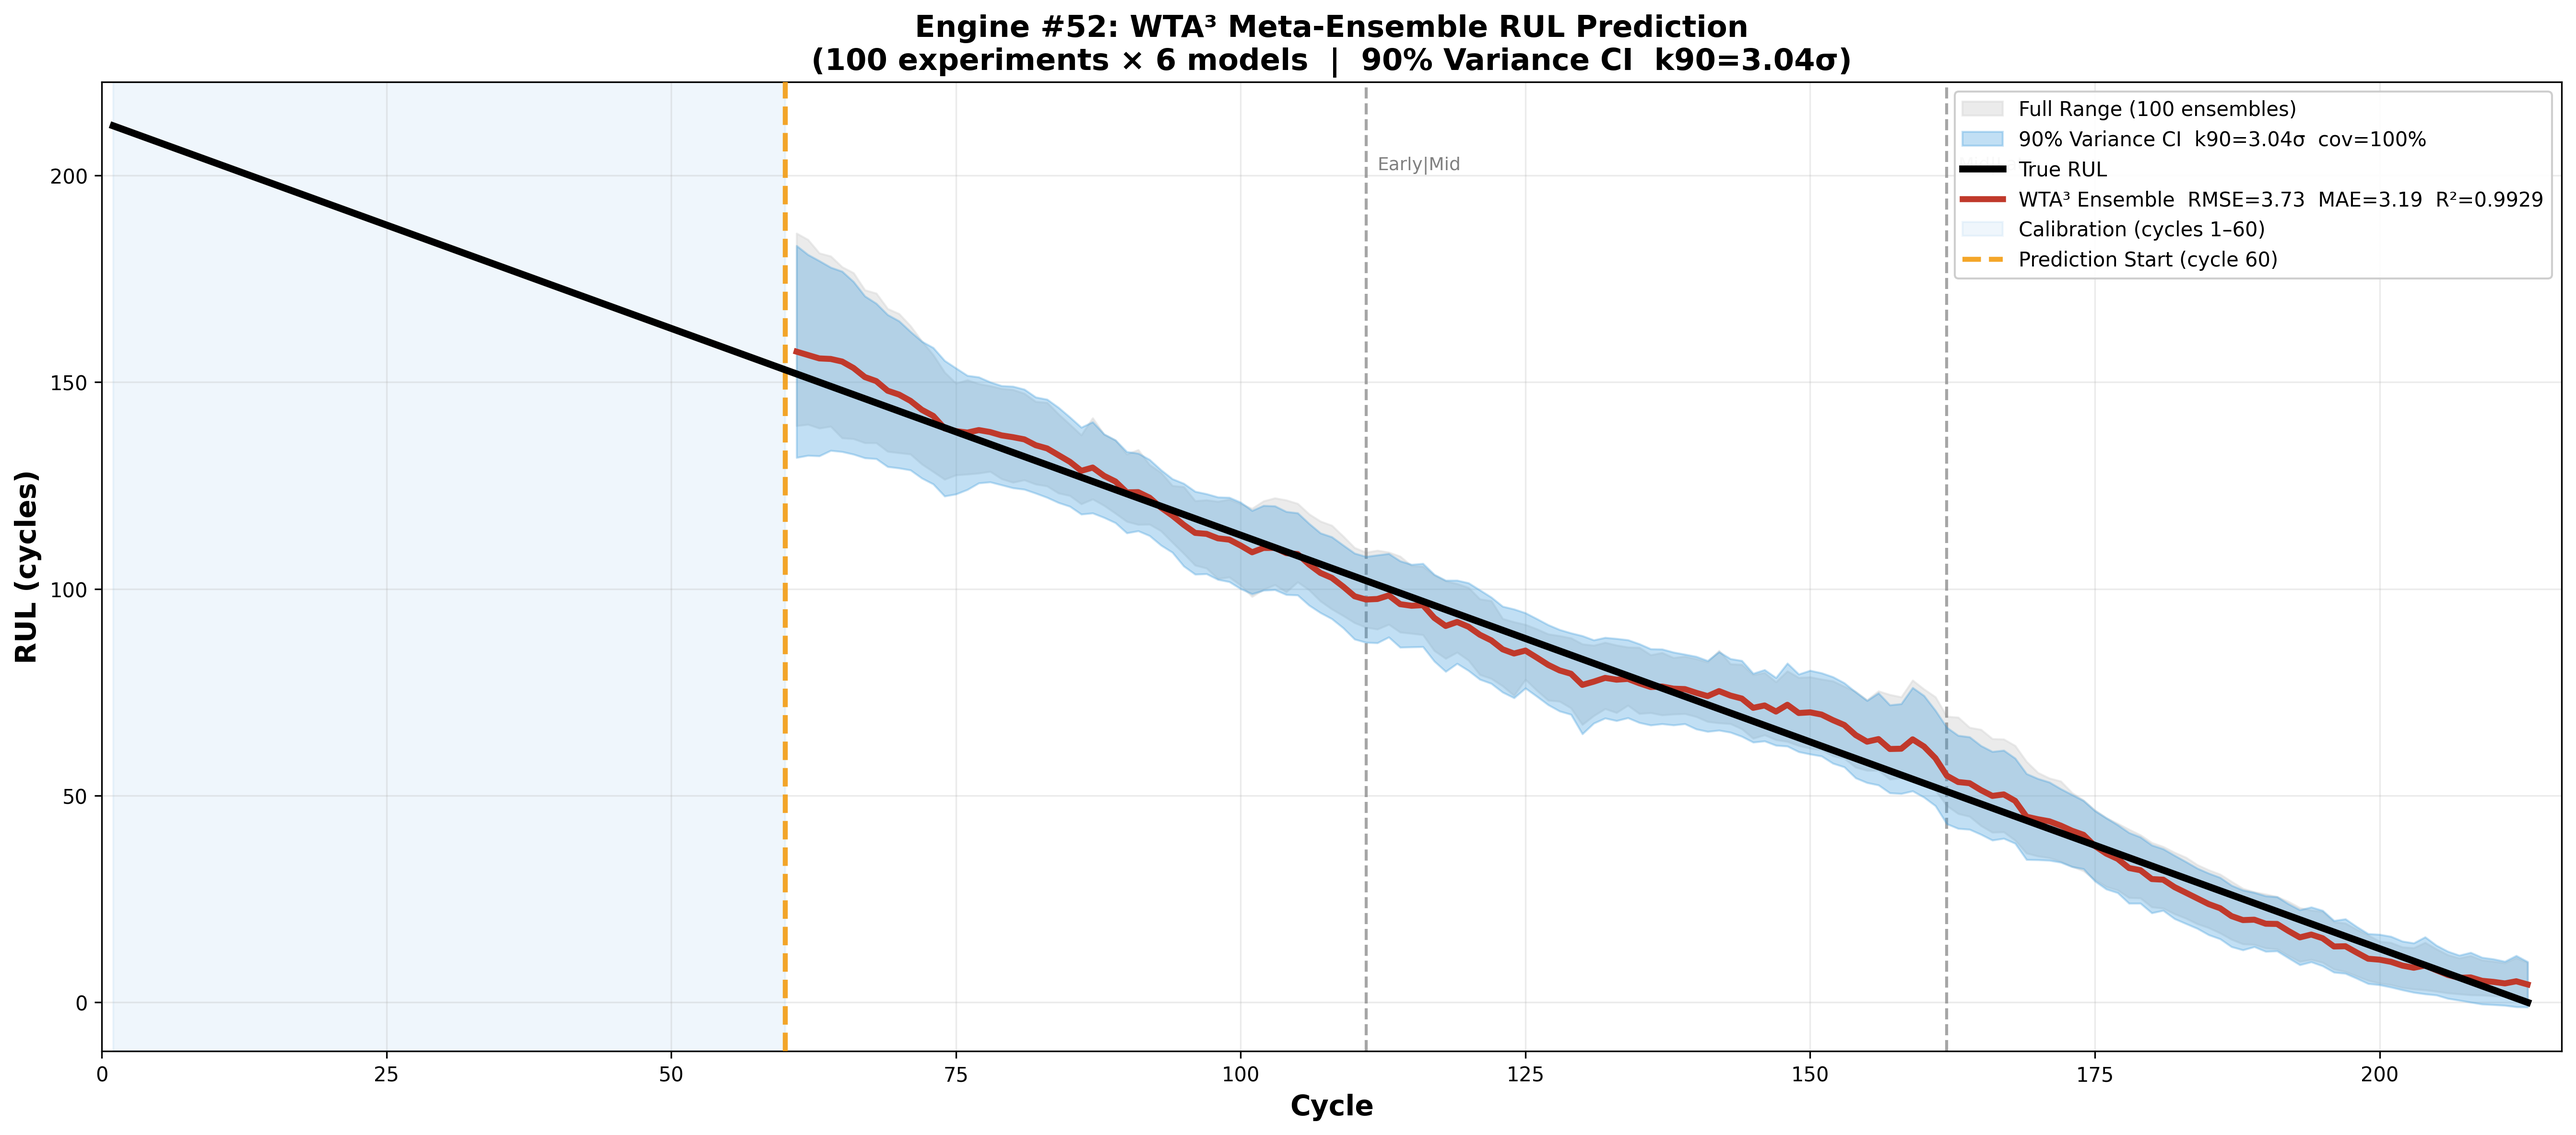
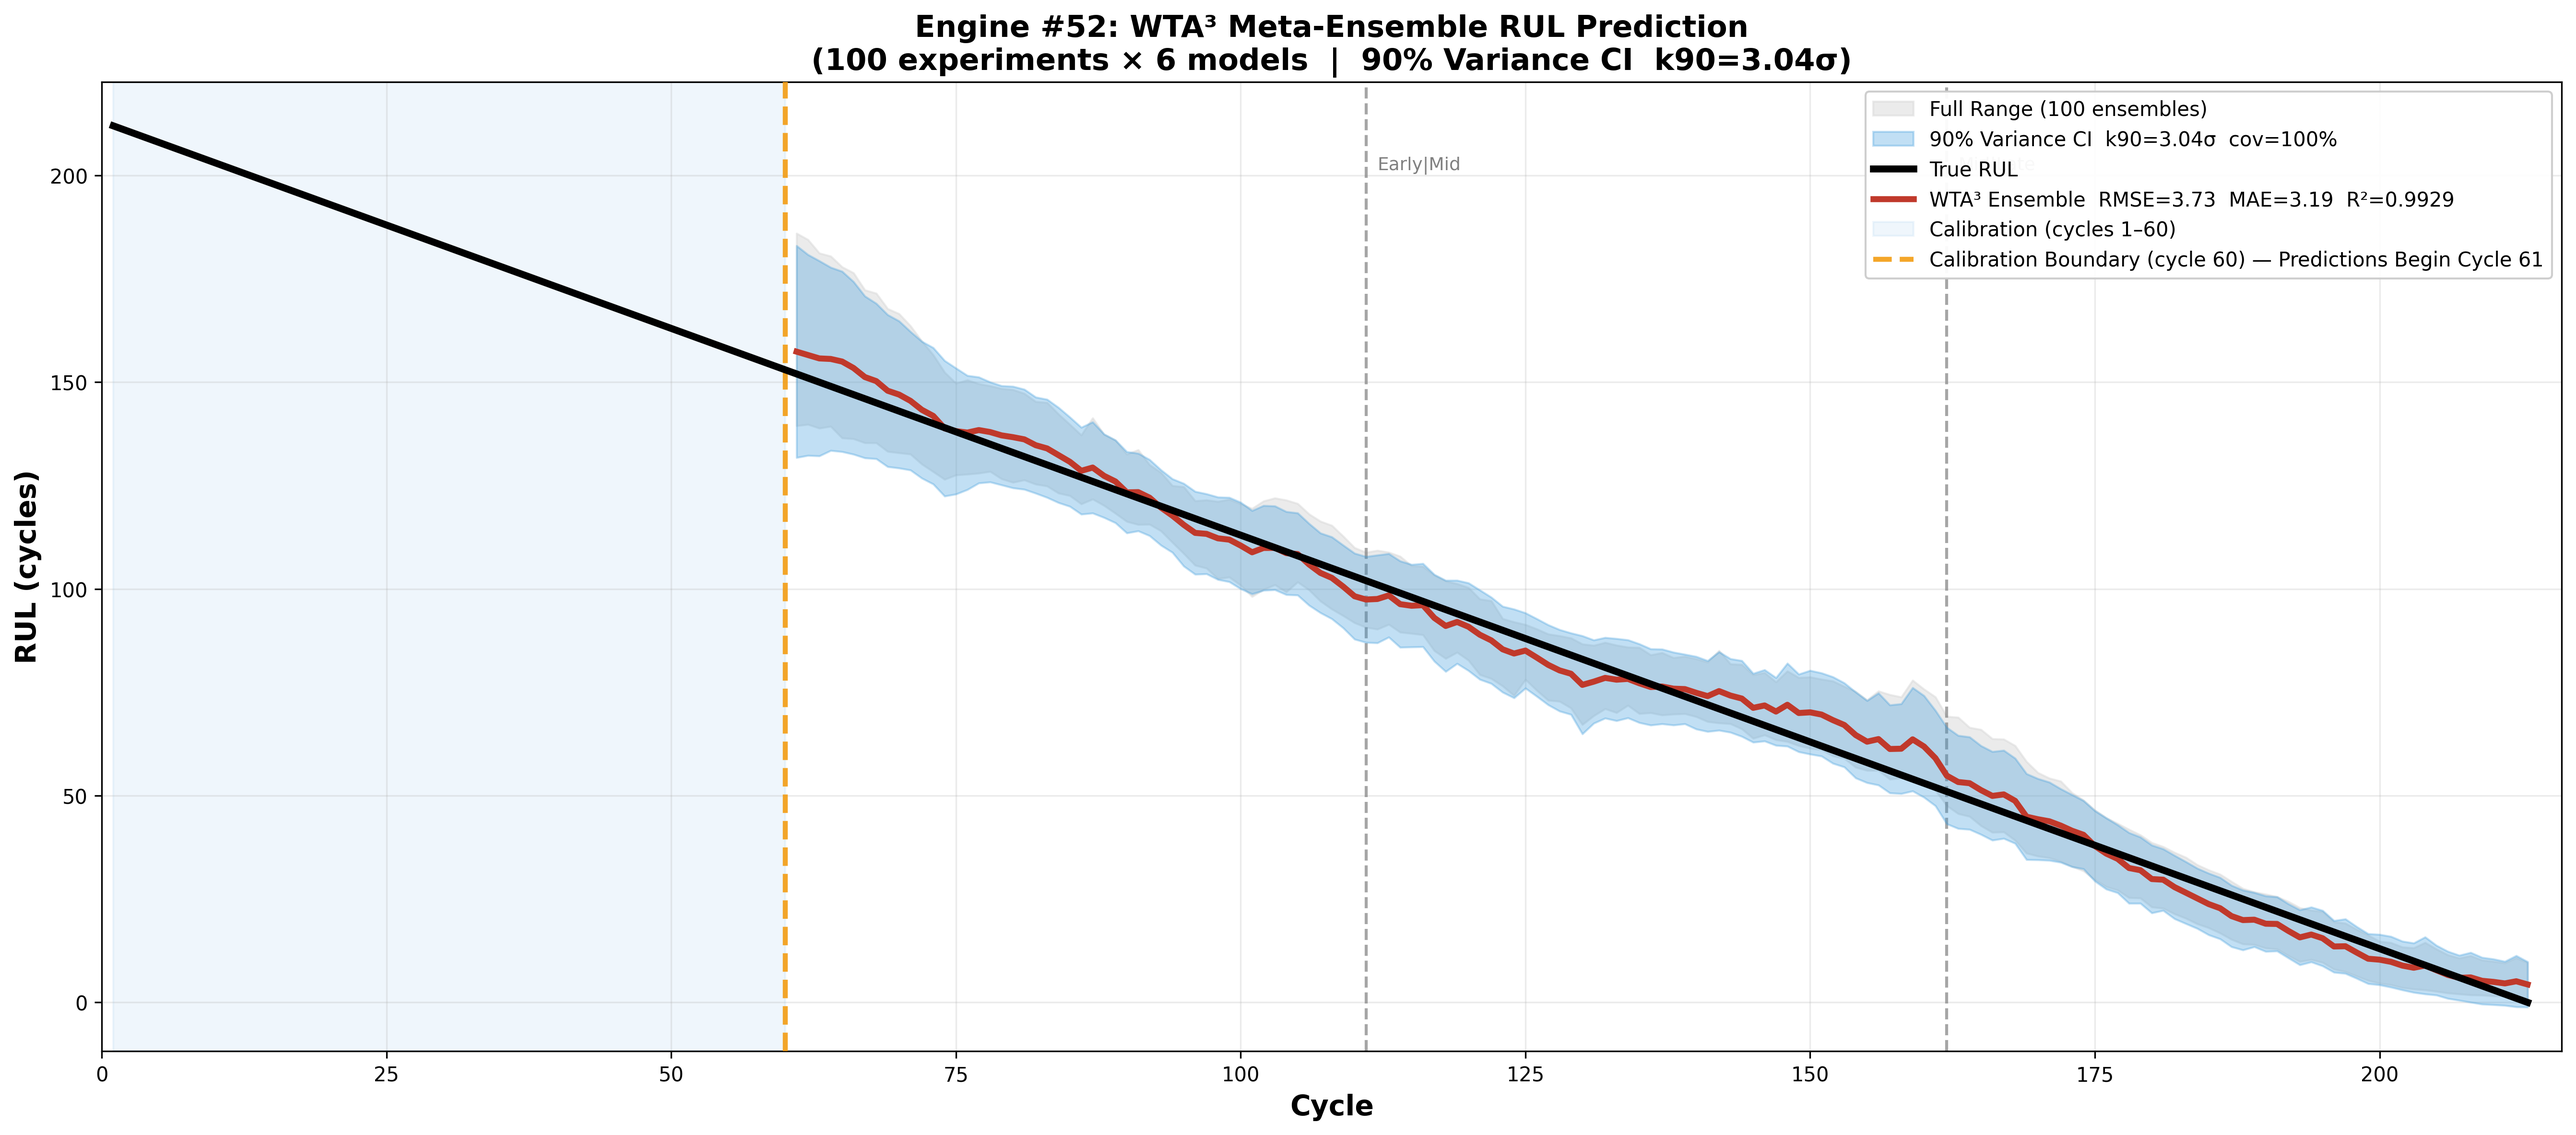
Fix publish-readiness issues: deps, docs accuracy, license
- requirements.txt: add missing tensorflow/keras, xgboost, scikit-learn,
  scipy, seaborn, matplotlib with pinned versions (was only listing
  streamlit/plotly/pandas/numpy, so a clean install couldn't run the
  pipeline scripts)
- README: correct DL framework reference (torch -> tensorflow/keras) to
  match actual code; caveat FD002-FD004 results as reported from separate
  runs not reproducible from this repo (only FD001 data/code included)
- Add CC BY-NC 4.0 LICENSE, referenced from README
- Commit pending Figure 5 fix: report Transformer's inlier-basis mean
  weight (0.617) instead of the all-100 mean (0.327), which understated
  its weight by averaging over the 47 configs where it's MAD-excluded;
  also clarifies calibration boundary labels on fig2/fig6

Changed region(s): [[0.7153, 0.0938, 0.9952, 0.25]]

diff --git a/step6_Visualization_and_Summary.py b/step6_Visualization_and_Summary.py
@@ -498,7 +498,7 @@ for xv, lbl in [(111, 'Early|Mid'), (162, 'Mid|Late')]:
 ax.axvspan(1, CALIBRATION_CYCLES, alpha=0.08, color='#3498db',
            label=f'Calibration (cycles 1–{CALIBRATION_CYCLES})', zorder=0)
 ax.axvline(CALIBRATION_CYCLES, color='#f39c12', ls='--', lw=2.5, alpha=0.9,
-           zorder=8, label='Prediction Start (cycle 60)')
+           zorder=8, label='Calibration Boundary (cycle 60) — Predictions Begin Cycle 61')
 
 ax.set_xlabel('Cycle', fontsize=14, fontweight='bold')
 ax.set_ylabel('RUL (cycles)', fontsize=14, fontweight='bold')
@@ -620,6 +620,13 @@ print("Generating Figure 5...")
 weights_per_model  = {m: [e['weights'][m]  for e in train_summary] for m in MODEL_NAMES}
 outliers_per_model = {m: [e['outliers'][m] for e in train_summary] for m in MODEL_NAMES}
 outlier_counts     = {m: sum(outliers_per_model[m]) for m in MODEL_NAMES}
+# Inlier-basis mean for the Transformer only, since its all-100 mean (0.327)
+# is diluted by the 47 zero-weight excluded runs and understates its weight
+# whenever it actually participates (0.617). The other five models are
+# reported on the all-100 basis throughout the paper; for RF, SVR and CNN
+# (never excluded) the two bases coincide exactly.
+transformer_inlier_mean = float(np.mean(
+    [w for w, out in zip(weights_per_model['Transformer'], outliers_per_model['Transformer']) if not out]))
 
 fig, axes = plt.subplots(2, 3, figsize=(18, 10))
 axes = axes.flatten()
@@ -627,15 +634,25 @@ axes = axes.flatten()
 for idx, m in enumerate(MODEL_NAMES):
     ax = axes[idx]
     w  = weights_per_model[m]
+    all100_mean = np.mean(w)
     ax.hist(w, bins=20, color=colors6[idx], edgecolor='black', alpha=0.8, lw=1)
-    ax.axvline(np.mean(w), color='black', lw=2, ls='--',
-               label=f'Mean={np.mean(w):.3f}')
     ax.axvline(1/6, color='gray', lw=1.5, ls=':',
                label='Equal weight (1/6)')
     out_note = (f"\n[{outlier_counts[m]} configs: weight=0 (MAD excluded)]"
                 if outlier_counts[m] > 0 else "")
-    ax.set_title(f'{m}\nMean={np.mean(w):.3f}  Outliers={outlier_counts[m]}/100'
-                 + out_note, fontsize=10, fontweight='bold')
+    if m == 'Transformer':
+        # Headline statistic is the inlier-basis mean (0.617): the mean
+        # weight it receives in the 53 configurations where it is retained.
+        ax.axvline(transformer_inlier_mean, color='black', lw=2, ls='--',
+                   label=f'Inlier mean={transformer_inlier_mean:.3f}')
+        ax.set_title(f'{m}\nInlier mean={transformer_inlier_mean:.3f}  (all-100 mean={all100_mean:.3f})  '
+                     f'Outliers={outlier_counts[m]}/100' + out_note,
+                     fontsize=10, fontweight='bold')
+    else:
+        ax.axvline(all100_mean, color='black', lw=2, ls='--',
+                   label=f'Mean={all100_mean:.3f}')
+        ax.set_title(f'{m}\nMean={all100_mean:.3f}  Outliers={outlier_counts[m]}/100'
+                     + out_note, fontsize=10, fontweight='bold')
     ax.set_xlabel('WTA³ Weight', fontsize=10)
     ax.set_ylabel('Count', fontsize=10)
     ax.legend(fontsize=8)
@@ -666,7 +683,7 @@ ax.plot(full_cycles, full_true_rul, 'k-', lw=3, label='True RUL', zorder=10)
 ax.plot(pred_cycles, meta_pred, color='#c0392b', lw=2.5,
         label='Meta-Ensemble', zorder=9)
 ax.axvline(CALIBRATION_CYCLES, color='#f39c12', ls='--', lw=2.5,
-           label='Prediction Start (cycle 60)')
+           label='Calibration Boundary (cycle 60) — Predictions Begin Cycle 61')
 for xv, lbl in [(111, 'Early|Mid'), (162, 'Mid|Late')]:
     ax.axvline(xv, color='gray', ls=':', lw=1.5)
     ax.text(xv+1, full_true_rul.max()*0.92, lbl, fontsize=9, color='gray')

diff --git a/README.md b/README.md
@@ -51,7 +51,7 @@ exclude if |val_RMSE(i) − median| > 2.5 × MAD
 
 ## Dataset
 
-[NASA C-MAPSS](https://www.nasa.gov/intelligent-systems-division/) FD001–FD004 turbofan engine degradation dataset.
+[NASA C-MAPSS](https://www.nasa.gov/intelligent-systems-division/) turbofan engine degradation dataset.
 
 | Dataset | Conditions | Fault Modes | Test Engine | RMSE |
 |---|---|---|---|---|
@@ -59,6 +59,8 @@ exclude if |val_RMSE(i) − median| > 2.5 × MAD
 | FD002 | 6 | 1 | #154 | 5.50 |
 | FD003 | 1 | 2 | #52 | 14.51 |
 | FD004 | 6 | 2 | #143 | 11.31 |
+
+> **Reproducibility scope:** this repository contains the data, pipeline, and results for **FD001 only**. The FD002–FD004 rows are reported from separate experiment runs (same WTA³ methodology) that are not included in this codebase.
 
 ---
 
@@ -130,7 +132,7 @@ Features: cycle slider, RUL countdown, health status (green/yellow/red), 90% CI 
 pip install -r requirements.txt
 ```
 
-Main dependencies: `scikit-learn`, `xgboost`, `torch`, `streamlit`, `matplotlib`, `numpy`, `pandas`
+Main dependencies: `scikit-learn`, `xgboost`, `tensorflow`/`keras`, `streamlit`, `plotly`, `matplotlib`, `seaborn`, `scipy`, `numpy`, `pandas`
 
 ---
 
@@ -172,4 +174,4 @@ Uncertainty Quantification using Limited Time Series Data for Prognostics.
 
 ## License
 
-For academic and research use only. Dataset sourced from NASA Prognostics Center of Excellence.
+[CC BY-NC 4.0](https://creativecommons.org/licenses/by-nc/4.0/) — free to use, share, and adapt for academic and research purposes with attribution; no commercial use. See [LICENSE](LICENSE). Dataset sourced from NASA Prognostics Center of Excellence.
